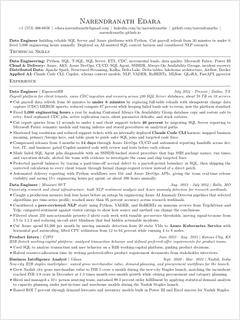
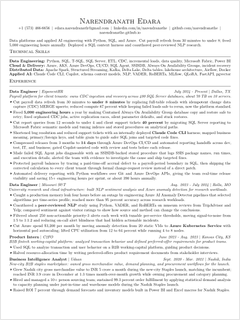
Broaden master resume summary to data platforms and applied AI

Changed region(s): [[0.0292, 0.125, 0.875, 0.1562]]

diff --git a/index.html b/index.html
@@ -94,9 +94,9 @@
         <a href="#projects" class="nav-link">Projects</a>
         <a href="#contact" class="nav-link">Contact</a>
       </nav>
-      <a href="/static/resume.pdf?v=a44376ef"
+      <a href="/static/resume.pdf?v=ef609bfe"
          class="btn btn-resume" target="_blank" rel="noreferrer"
-         data-hover-preview="/static/resume-page1-preview.png?v=11165173"
+         data-hover-preview="/static/resume-page1-preview.png?v=3669fc28"
          data-hover-title="Resume - last updated Oct 1, 2026"
          data-hover-caption="2 pages - click to download PDF"
          onclick="typeof plausible!=='undefined'&&plausible('Resume Download')">
@@ -111,9 +111,9 @@
       <a href="#experience" class="mobile-link">Experience</a>
       <a href="#projects" class="mobile-link">Projects</a>
       <a href="#contact" class="mobile-link">Contact</a>
-      <a href="/static/resume.pdf?v=a44376ef"
+      <a href="/static/resume.pdf?v=ef609bfe"
          class="mobile-link" target="_blank" rel="noreferrer"
-         data-hover-preview="/static/resume-page1-preview.png?v=11165173"
+         data-hover-preview="/static/resume-page1-preview.png?v=3669fc28"
          data-hover-title="Resume - last updated Oct 1, 2026"
          data-hover-caption="2 pages - click to download PDF">Download resume</a>
     </nav>
@@ -131,7 +131,7 @@
           <p class="hero-brief">I build SQL Server and Azure pipelines for payroll teams. My work makes data processing faster, removes repetitive database setup, and helps teams ship changes sooner.</p>
           <p class="hero-seeking">Open to U.S. relocation &middot; H-1B transfer required</p>
           <div class="hero-actions">
-            <a href="/static/resume.pdf?v=a44376ef" class="btn btn-primary" data-hover-preview="/static/resume-page1-preview.png?v=11165173" data-hover-title="Resume - last updated Oct 1, 2026" data-hover-caption="2 pages - click to download PDF" target="_blank" rel="noopener noreferrer">Read my resume</a>
+            <a href="/static/resume.pdf?v=ef609bfe" class="btn btn-primary" data-hover-preview="/static/resume-page1-preview.png?v=3669fc28" data-hover-title="Resume - last updated Oct 1, 2026" data-hover-caption="2 pages - click to download PDF" target="_blank" rel="noopener noreferrer">Read my resume</a>
             <a href="mailto:edara.narendranath@gmail.com" class="btn btn-primary">Contact Naren</a>
           </div>
           <p class="hero-stack">SQL &middot; Python &middot; Azure &middot; Data quality</p>
@@ -623,7 +623,7 @@ stats_df = enriched_df \
             <p class="contact-links">
               <a href="https://www.linkedin.com/in/narendranathe/" target="_blank" rel="noreferrer" data-hover-preview="/static/preview-linkedin.png" data-hover-title="Narendranath Edara on LinkedIn" data-hover-caption="Data Engineer - Dallas TX">LinkedIn</a>
               <a href="https://github.com/narendranathe" target="_blank" rel="noreferrer">GitHub</a>
-              <a href="/static/resume.pdf?v=a44376ef" target="_blank" rel="noreferrer" data-hover-preview="/static/resume-page1-preview.png?v=11165173" data-hover-title="Resume - last updated Oct 1, 2026" data-hover-caption="2 pages - click to download PDF" onclick="typeof plausible!=='undefined'&&plausible('Resume Download')">Resume</a>
+              <a href="/static/resume.pdf?v=ef609bfe" target="_blank" rel="noreferrer" data-hover-preview="/static/resume-page1-preview.png?v=3669fc28" data-hover-title="Resume - last updated Oct 1, 2026" data-hover-caption="2 pages - click to download PDF" onclick="typeof plausible!=='undefined'&&plausible('Resume Download')">Resume</a>
             </p>
           </div>
         </div>
